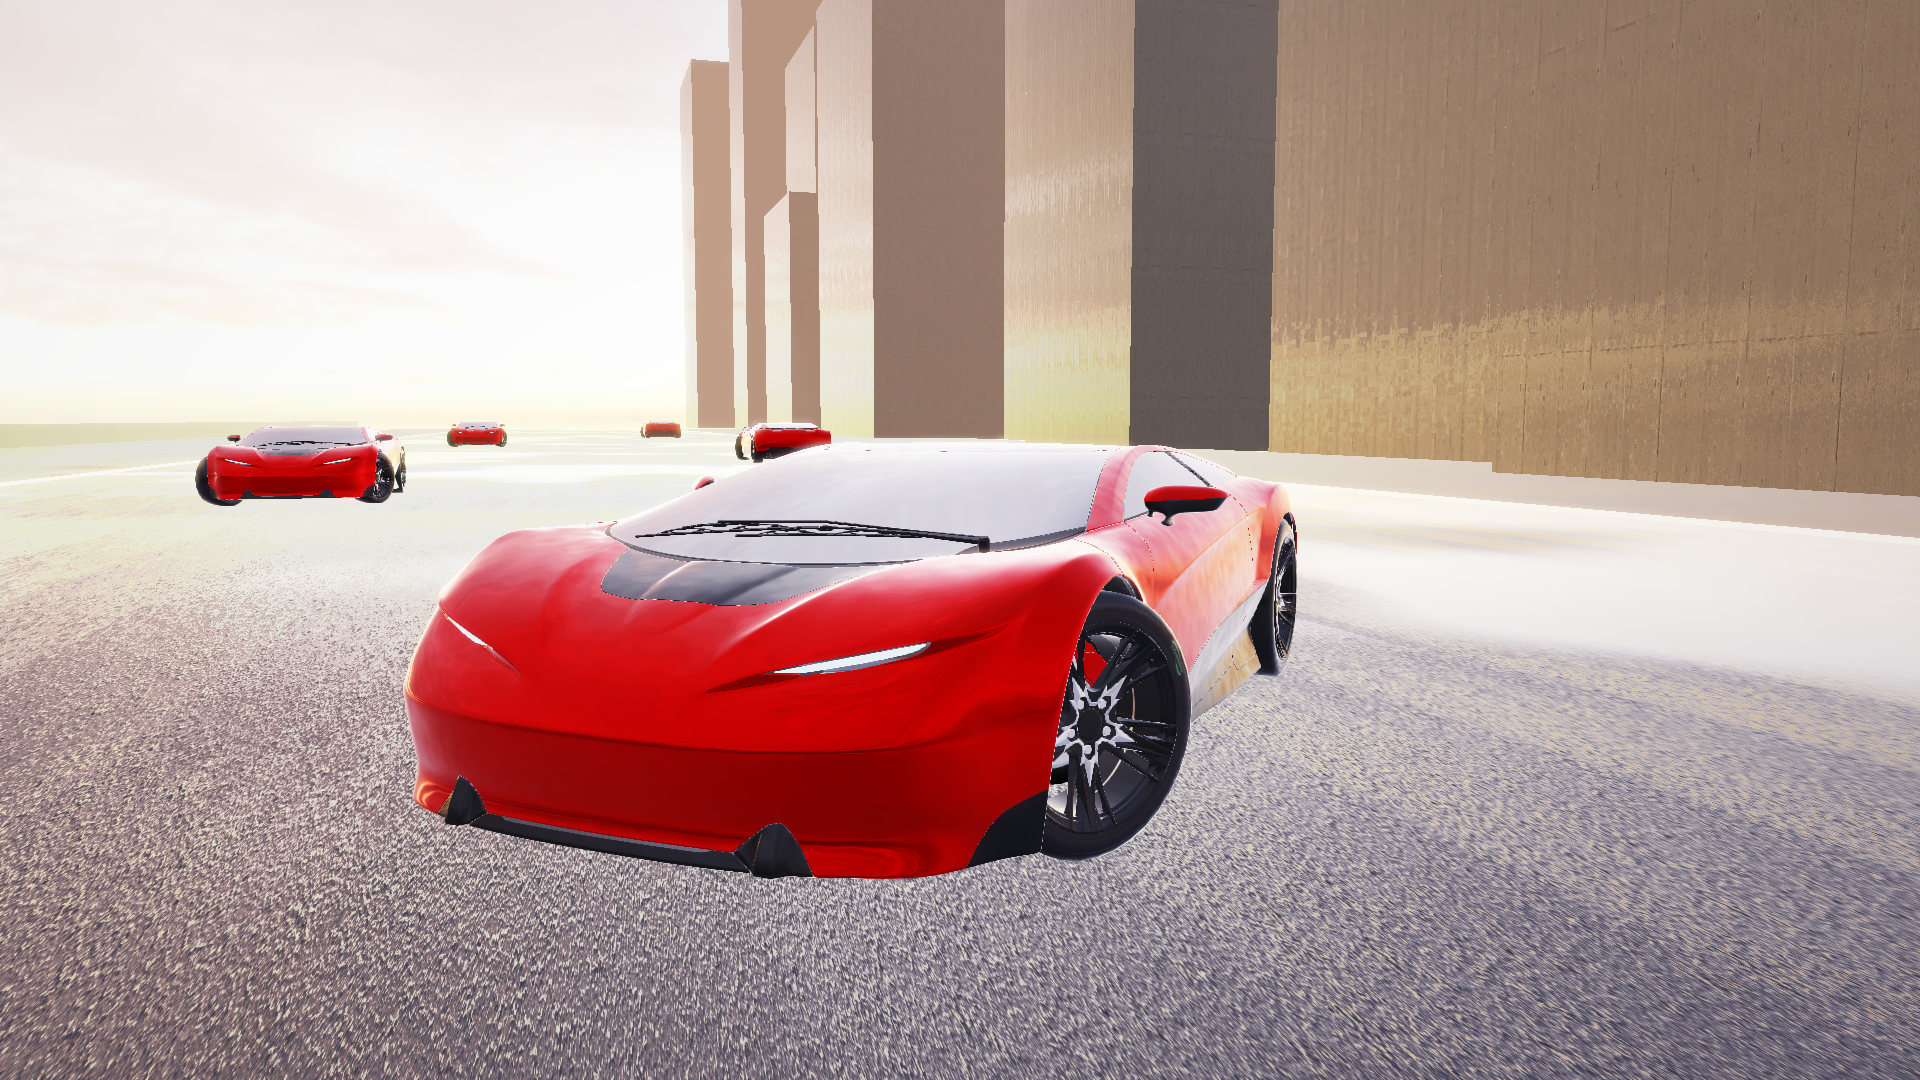
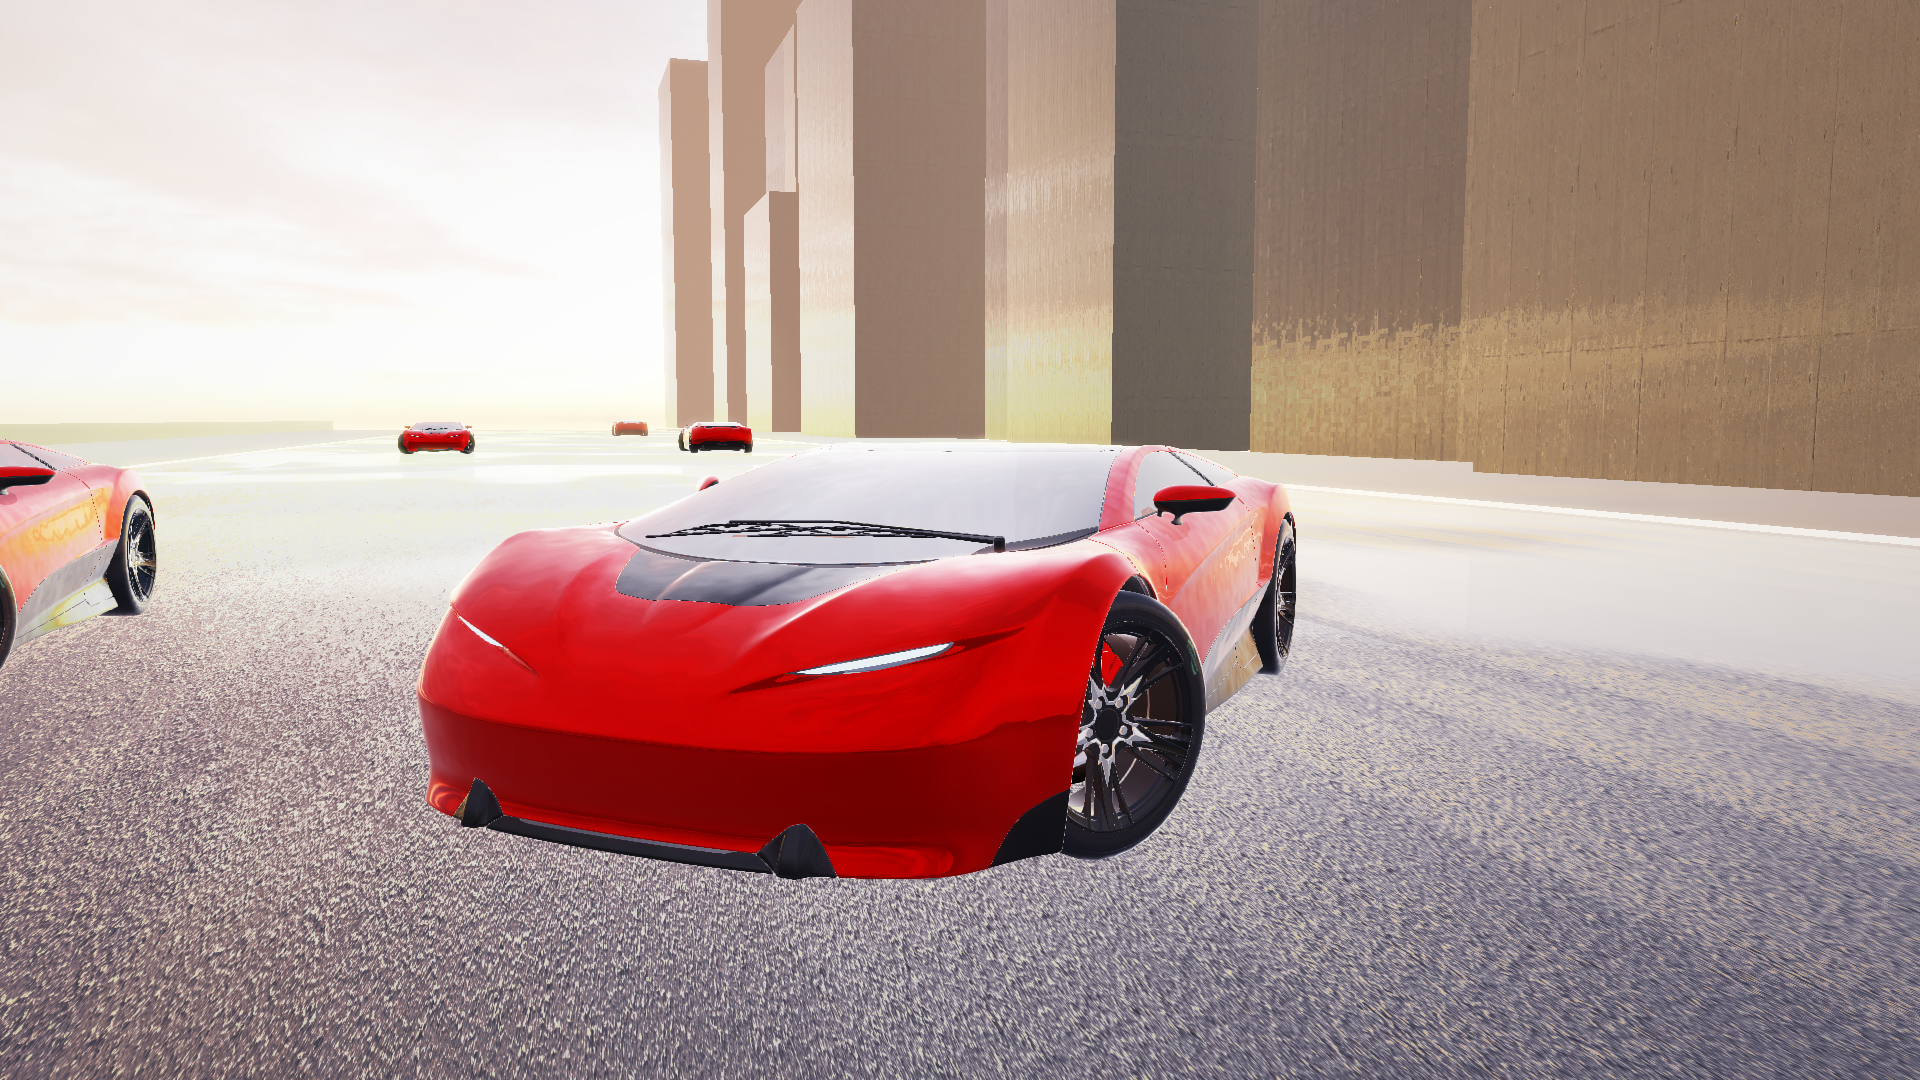
fix: flush DXR TLAS before G-buffer to eliminate RTX 5080 RayQuery tile flicker and enable VSync by default
- src/gpu_decoder.rs — add uav_barrier_all() helper for full UAV/AS cache flush
- src/aaa_scene.rs — flush BuildRaytracingAccelerationStructure in dedicated tlas_cmd + signal_and_wait() with PREFER_FAST_TRACE and uav_barrier(&blas_scratch), wait cleanly per frame, and default VSync ON
- src/bin/demo_aaa.rs — add --no-vsync, --no-rt, and --no-rtgi flags
- shaders/compile_shaders.bat, shaders/aaa_pbr_ps.dxil — target ps_6_6 for aaa_pbr.hlsl
- media/aaa_showcase_v7.png — refresh verified 1920x1080 capture

Tests: 4x --no-rtgi + 2x full RTGI (f200) visually spotless, 170.18 FPS VSync ON / 331.92 FPS --no-vsync, 0 DX12 errors

diff --git a/src/aaa_scene.rs b/src/aaa_scene.rs
@@ -5,7 +5,7 @@ use crate::gltf_loader::{
 };
 use crate::gpu_decoder::{
     cmd_barriers, create_committed_buffer, dump_d3d12_info_queue, heap_props, pack_batch,
-    transition_barrier, uav_barrier, upload_slice, BcpackGpuDecoder, GpuContext,
+    transition_barrier, uav_barrier, uav_barrier_all, upload_slice, BcpackGpuDecoder, GpuContext,
 };
 use crate::raytracing::{supports_dxr_1_1, MAX_RT_INSTANCES};
 use crate::rtgi::RTGI_DENOISE_CS_DXIL;
@@ -63,6 +63,8 @@ pub struct AaaDemoConfig {
     pub enable_debug: bool,
     pub xray_mode: bool,
     pub vsync: bool,
+    pub no_rt: bool,
+    pub no_rtgi: bool,
     pub tiles_per_frame: usize,
     pub measure_frames: Option<u32>,
     pub flush_at_frame: Option<u32>,
@@ -79,7 +81,9 @@ impl Default for AaaDemoConfig {
             flush_bench: false,
             enable_debug: false,
             xray_mode: false,
-            vsync: false,
+            vsync: true,
+            no_rt: false,
+            no_rtgi: false,
             tiles_per_frame: 256,
             measure_frames: None,
             flush_at_frame: None,
@@ -517,6 +521,8 @@ struct AaaDxrScene {
     tlas_result: [ID3D12Resource; 2],
     instances_upload: [ID3D12Resource; 2],
     inst_colors_upload: [ID3D12Resource; 2],
+    tlas_alloc: ID3D12CommandAllocator,
+    tlas_cmd: ID3D12GraphicsCommandList,
 }
 
 impl AaaDxrScene {
@@ -648,7 +654,7 @@ impl AaaDxrScene {
                 ScratchAccelerationStructureData: blas_scratch.GetGPUVirtualAddress(),
             };
             cmd4.BuildRaytracingAccelerationStructure(&build_desc, None);
-            cmd_barriers(&list, vec![uav_barrier(&blas_res[i])]);
+            cmd_barriers(&list, vec![uav_barrier(&blas_res[i]), uav_barrier(&blas_scratch)]);
         }
         list.Close().unwrap();
         let exec = [Some(list.cast::<ID3D12CommandList>().unwrap())];
@@ -667,7 +673,7 @@ impl AaaDxrScene {
         ];
         let tlas_inputs = D3D12_BUILD_RAYTRACING_ACCELERATION_STRUCTURE_INPUTS {
             Type: D3D12_RAYTRACING_ACCELERATION_STRUCTURE_TYPE_TOP_LEVEL,
-            Flags: D3D12_RAYTRACING_ACCELERATION_STRUCTURE_BUILD_FLAG_PREFER_FAST_BUILD,
+            Flags: D3D12_RAYTRACING_ACCELERATION_STRUCTURE_BUILD_FLAG_PREFER_FAST_TRACE,
             NumDescs: MAX_RT_INSTANCES as u32,
             DescsLayout: D3D12_ELEMENTS_LAYOUT_ARRAY,
             Anonymous: D3D12_BUILD_RAYTRACING_ACCELERATION_STRUCTURE_INPUTS_0 {
@@ -690,6 +696,10 @@ impl AaaDxrScene {
         let blas_box = blas_res.pop().unwrap();
         let blas_car = blas_res.pop().unwrap();
 
+        let tlas_alloc: ID3D12CommandAllocator = ctx.device.CreateCommandAllocator(D3D12_COMMAND_LIST_TYPE_DIRECT).unwrap();
+        let tlas_cmd: ID3D12GraphicsCommandList = ctx.device.CreateCommandList(0, D3D12_COMMAND_LIST_TYPE_DIRECT, &tlas_alloc, None).unwrap();
+        tlas_cmd.Close().unwrap();
+
         Some(Self {
             blas_car,
             blas_box,
@@ -699,12 +709,14 @@ impl AaaDxrScene {
             tlas_result,
             instances_upload,
             inst_colors_upload,
+            tlas_alloc,
+            tlas_cmd,
         })
     }
 
     unsafe fn build_tlas(
         &self,
-        cmd_list: &ID3D12GraphicsCommandList,
+        ctx: &mut GpuContext,
         slot: usize,
         instances: &[(usize, [f32; 12], [f32; 4])], // (blas_kind 0=car,1=box,2=plane, 3x4, color)
     ) {
@@ -729,10 +741,12 @@ impl AaaDxrScene {
         upload_slice(&self.instances_upload[s], &descs);
         upload_slice(&self.inst_colors_upload[s], &cols);
 
-        let cmd4: ID3D12GraphicsCommandList4 = cmd_list.cast().unwrap();
+        self.tlas_alloc.Reset().unwrap();
+        self.tlas_cmd.Reset(&self.tlas_alloc, None).unwrap();
+        let cmd4: ID3D12GraphicsCommandList4 = self.tlas_cmd.cast().unwrap();
         let inputs = D3D12_BUILD_RAYTRACING_ACCELERATION_STRUCTURE_INPUTS {
             Type: D3D12_RAYTRACING_ACCELERATION_STRUCTURE_TYPE_TOP_LEVEL,
-            Flags: D3D12_RAYTRACING_ACCELERATION_STRUCTURE_BUILD_FLAG_PREFER_FAST_BUILD,
+            Flags: D3D12_RAYTRACING_ACCELERATION_STRUCTURE_BUILD_FLAG_PREFER_FAST_TRACE,
             NumDescs: count as u32,
             DescsLayout: D3D12_ELEMENTS_LAYOUT_ARRAY,
             Anonymous: D3D12_BUILD_RAYTRACING_ACCELERATION_STRUCTURE_INPUTS_0 {
@@ -746,7 +760,11 @@ impl AaaDxrScene {
             ScratchAccelerationStructureData: self.tlas_scratch[s].GetGPUVirtualAddress(),
         };
         cmd4.BuildRaytracingAccelerationStructure(&build_desc, None);
-        cmd_barriers(cmd_list, vec![uav_barrier(&self.tlas_result[s]), uav_barrier(&self.tlas_scratch[s])]);
+        cmd_barriers(&self.tlas_cmd, vec![uav_barrier_all()]);
+        self.tlas_cmd.Close().unwrap();
+        let exec = [Some(self.tlas_cmd.cast::<ID3D12CommandList>().unwrap())];
+        ctx.queue.ExecuteCommandLists(&exec);
+        ctx.signal_and_wait();
     }
 }
 
@@ -1488,8 +1506,8 @@ pub fn run_aaa_demo(cfg: AaaDemoConfig) {
 
         let mut wstate = Box::new(WindowState {
             use_gpu: !cfg.start_cpu,
-            rt_enabled: true,
-            rtgi_enabled: true,
+            rt_enabled: !cfg.no_rt,
+            rtgi_enabled: !cfg.no_rt && !cfg.no_rtgi,
             xray_enabled: cfg.xray_mode,
             vsync_enabled: cfg.vsync,
             cam_mode: 0,
@@ -2336,7 +2354,7 @@ pub fn run_aaa_demo(cfg: AaaDemoConfig) {
                     let tm = Mat4::translation(pos[0], pos[1], pos[2]).mul(&Mat4::scale(scale[0], scale[1], scale[2]));
                     rt_insts.push((1usize, tm.to_3x4(), [col[0], col[1], col[2], 0.12]));
                 }
-                rt.build_tlas(cmd, slot, &rt_insts);
+                rt.build_tlas(&mut ctx, slot, &rt_insts);
             }
 
             // Begin 3-MRT G-Buffer pass
@@ -2552,16 +2570,10 @@ pub fn run_aaa_demo(cfg: AaaDemoConfig) {
                 break;
             }
 
-            if take_shot {
-                ctx.signal_and_wait();
-                if wstate.use_gpu && !taken.is_empty() {
-                    last_decode_ms = gpu_dec.read_slot_kernel_ms(&ctx, slot);
-                }
-            } else {
-                frame_fences[slot] = ctx.signal_direct_async();
-                if wstate.use_gpu && !taken.is_empty() {
-                    last_decode_ms = gpu_dec.read_slot_kernel_ms(&ctx, slot);
-                }
+            ctx.signal_and_wait();
+            frame_fences[slot] = 0;
+            if wstate.use_gpu && !taken.is_empty() {
+                last_decode_ms = gpu_dec.read_slot_kernel_ms(&ctx, slot);
             }
 
             frame_count += 1;

diff --git a/src/gpu_decoder.rs b/src/gpu_decoder.rs
@@ -178,6 +178,18 @@ pub fn uav_barrier(res: &ID3D12Resource) -> D3D12_RESOURCE_BARRIER {
     }
 }
 
+pub fn uav_barrier_all() -> D3D12_RESOURCE_BARRIER {
+    D3D12_RESOURCE_BARRIER {
+        Type: D3D12_RESOURCE_BARRIER_TYPE_UAV,
+        Flags: D3D12_RESOURCE_BARRIER_FLAG_NONE,
+        Anonymous: D3D12_RESOURCE_BARRIER_0 {
+            UAV: ManuallyDrop::new(D3D12_RESOURCE_UAV_BARRIER {
+                pResource: ManuallyDrop::new(None),
+            }),
+        },
+    }
+}
+
 pub unsafe fn drop_barriers(barriers: &mut [D3D12_RESOURCE_BARRIER]) {
     for b in barriers.iter_mut() {
         if b.Type == D3D12_RESOURCE_BARRIER_TYPE_TRANSITION {

diff --git a/src/bin/demo_aaa.rs b/src/bin/demo_aaa.rs
@@ -17,6 +17,9 @@ fn main() {
             "--debug" => cfg.enable_debug = true,
             "--xray" => cfg.xray_mode = true,
             "--vsync" => cfg.vsync = true,
+            "--no-vsync" => cfg.vsync = false,
+            "--no-rt" => cfg.no_rt = true,
+            "--no-rtgi" => cfg.no_rtgi = true,
             "--tiles-per-frame" if i + 1 < args.len() => {
                 cfg.tiles_per_frame = args[i + 1].parse().unwrap_or(256);
                 i += 1;
